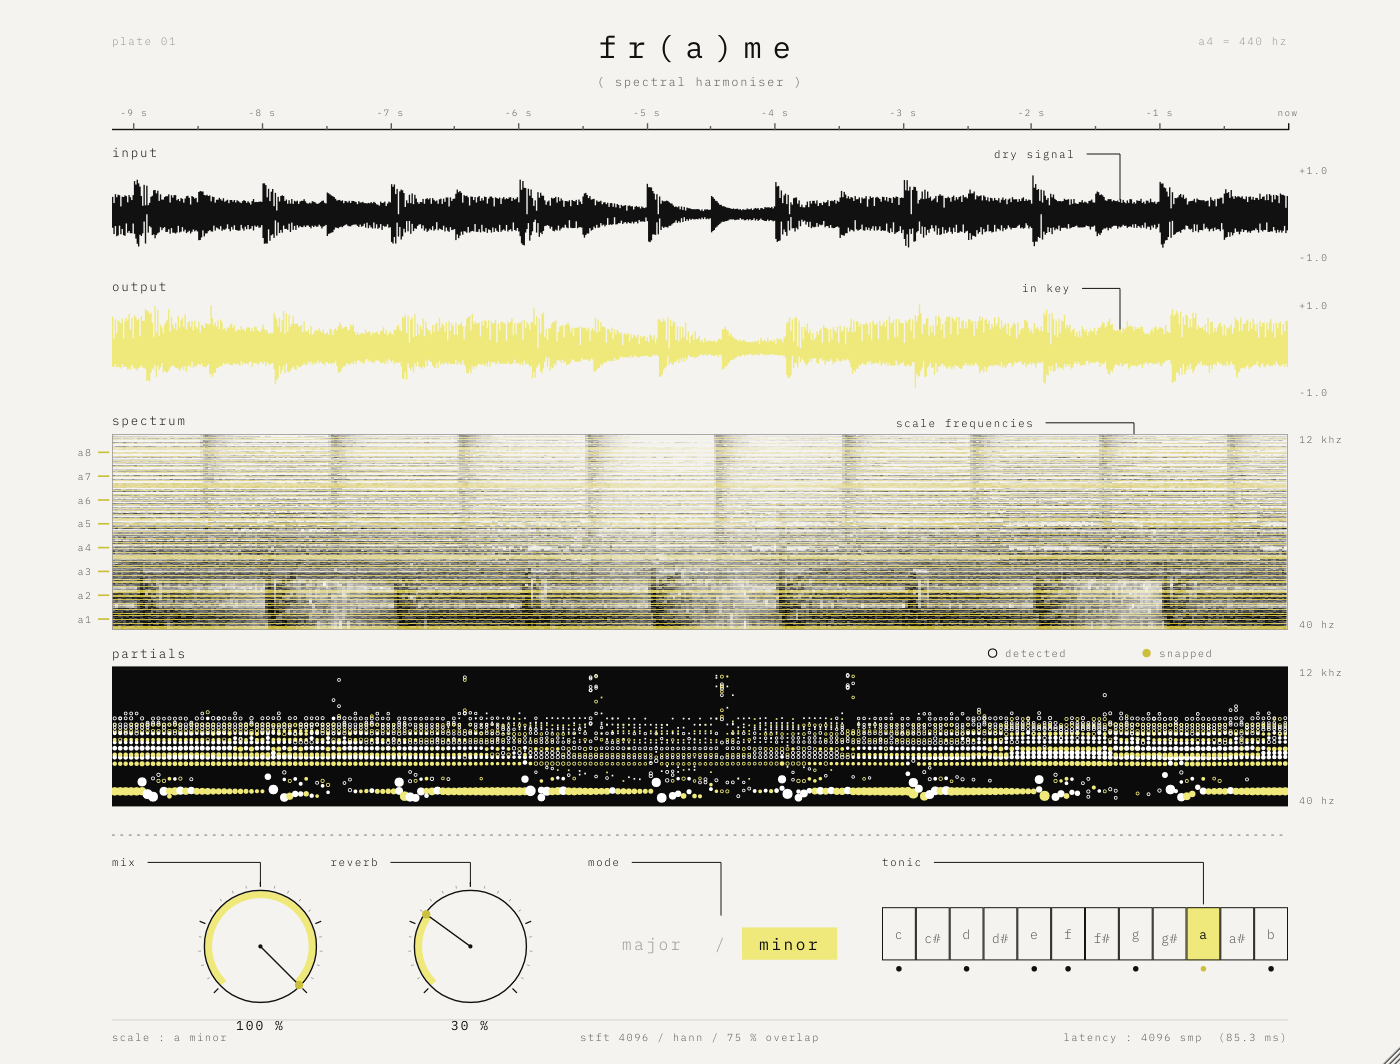
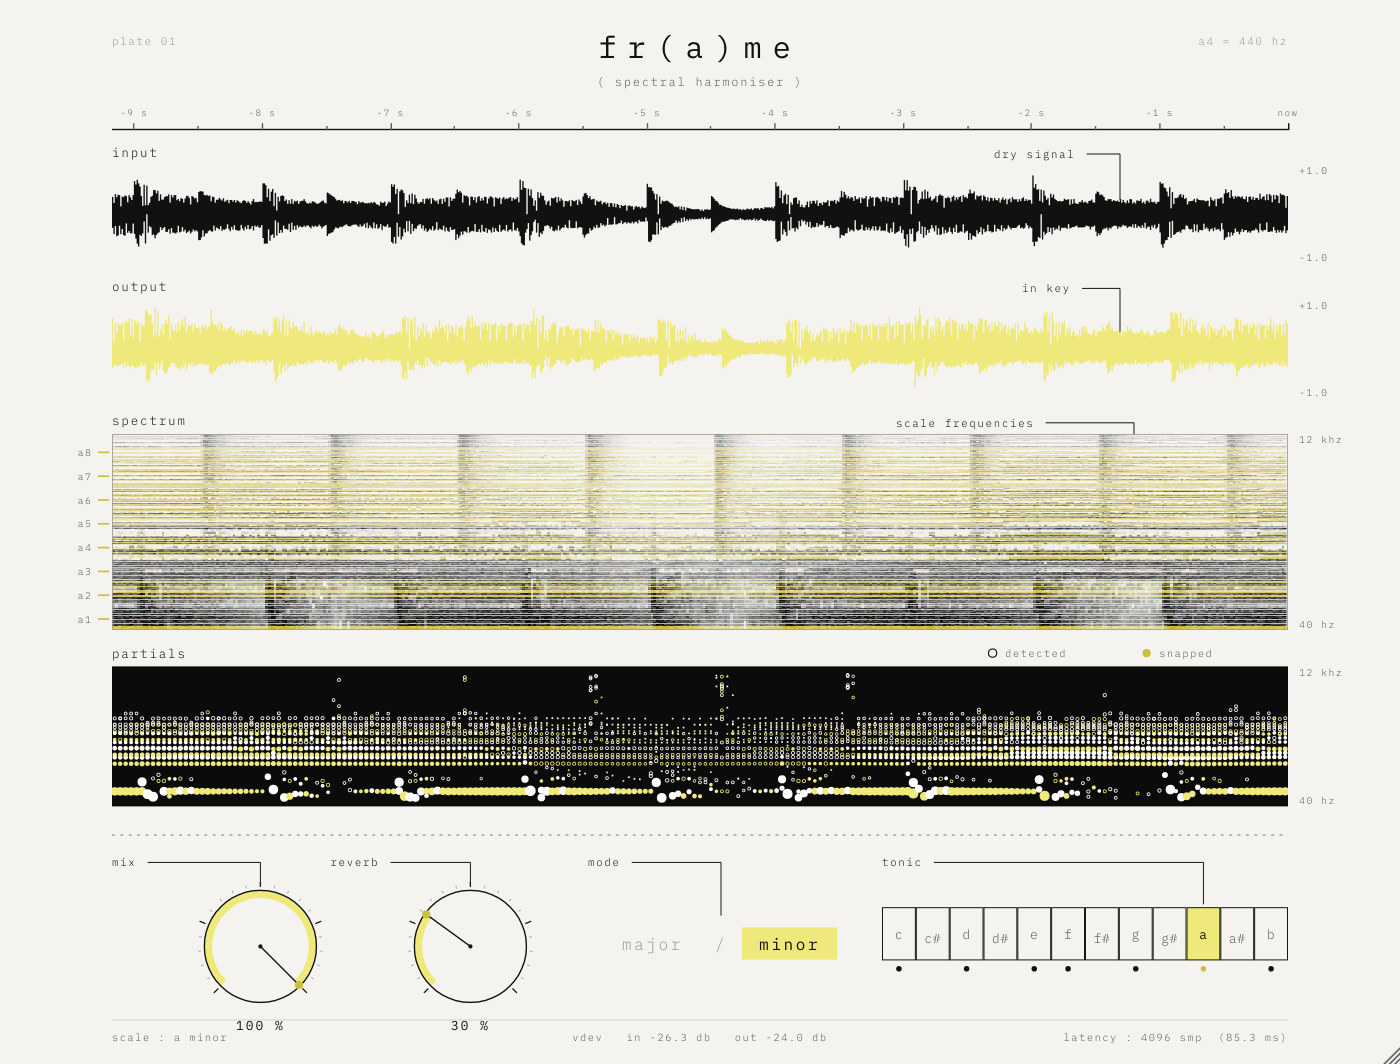
fr(a)me 1.7.0 : garde-fou « tout le son passe », version et niveaux affichés
- si le son traité tombe à plus de 6 dB sous l'original, le son direct est
  réinjecté automatiquement (30 ms / 600 ms) ; inactif en usage normal
- vérifié : perte simulée de 30 dB → niveau d'origine rétabli
- pied de page : version, niveaux entrée / sortie, « direct restored »
- son 1.6 (harmonie et reverb de la 1.4) inchangé

Claude-Session: https://claude.ai/code/session_01BthVUY6Bak1JTWBvTbc3au

Changed region(s): [[0.0614, 0.4652, 0.9214, 0.5583], [0.8293, 0.2791, 0.86, 0.3102], [0.2457, 0.3102, 0.2764, 0.3412]]

diff --git a/Source/PluginProcessor.cpp b/Source/PluginProcessor.cpp
@@ -94,6 +94,15 @@ void FrameAudioProcessor::prepareToPlay (double sampleRate, int samplesPerBlock)
     currentSlice = {};
     sliceCount = 0;
     engineNeedsReset = false;
+
+    // Garde-fou et vu-mètres : constantes de temps.
+    guardCoef      = 1.0f - std::exp (-1.0f / (0.15f * (float) sampleRate));   // énergie sur ~150 ms
+    restoreAttack  = 1.0f - std::exp (-32.0f / (0.03f * (float) sampleRate)); // réinjection en ~30 ms
+    restoreRelease = 1.0f - std::exp (-32.0f / (0.6f  * (float) sampleRate)); // retrait en ~600 ms
+    meterCoef      = 1.0f - std::exp (-1.0f / (0.3f  * (float) sampleRate));
+    guardDry = guardWet = 0.0f;
+    directRestore = 0.0f;
+    meterIn = meterOut = 0.0f;
     prepared = true;
 }
 
@@ -147,6 +156,8 @@ void FrameAudioProcessor::processBlock (juce::AudioBuffer<float>& buffer, juce::
         engine.reset();
         reverb.reset();
         dryDelay.clear();
+        guardDry = guardWet = 0.0f;
+        directRestore = 0.0f;
         reverbSmoothed = reverbParam->load() * 0.01f;
         engineNeedsReset = false;
     }
@@ -190,6 +201,9 @@ void FrameAudioProcessor::processChunk (juce::AudioBuffer<float>& buffer, int st
     juce::AudioBuffer<float> wetView (wetBuffer.getArrayOfWritePointers(), numChannels, 0, numSamples);
     reverb.process (wetView, numChannels, reverbSmoothed);   // 1. reverb ambient + nuage granulaire
     engine.process (wetView);                                // 2. recalage + harmoniques + peigne (queue comprise)
+   #ifdef FRAME_TEST_SIMULATE_WET_LOSS
+    wetView.applyGain (0.03f);                               // test du garde-fou uniquement (jamais dans le plugin)
+   #endif
 
     const int delayLength = dryDelay.getNumSamples();
     bool invalid = false;
@@ -210,7 +224,16 @@ void FrameAudioProcessor::processChunk (juce::AudioBuffer<float>& buffer, int st
             const float delayed = line[dryDelayWritePos];
             line[dryDelayWritePos] = x;
 
-            const float y = safetyLimit (delayed + m * (wetBuffer.getSample (c, i) - delayed), invalid);
+            // Garde-fou « tout le son passe » : si le chemin traité a perdu une
+            // grande partie du son d'origine, le son direct est réinjecté.
+            const float rawWet = wetBuffer.getSample (c, i);
+            const float wet = rawWet + directRestore * delayed;
+
+            // La perte se mesure AVANT correction (sinon le garde-fou se freinerait lui-même).
+            guardDry += (delayed * delayed - guardDry) * guardCoef;
+            guardWet += (rawWet * rawWet - guardWet) * guardCoef;
+
+            const float y = safetyLimit (delayed + m * (wet - delayed), invalid);
             buffer.setSample (c, startSample + i, y);
 
             inLo  = juce::jmin (inLo, x);  inHi  = juce::jmax (inHi, x);
@@ -219,6 +242,25 @@ void FrameAudioProcessor::processChunk (juce::AudioBuffer<float>& buffer, int st
 
         if (++dryDelayWritePos >= delayLength)
             dryDelayWritePos = 0;
+
+        // Mise à jour du garde-fou, une fois par paquet de 32 échantillons.
+        if ((++guardCounter & 31) == 0)
+        {
+            float target = 0.0f;
+            if (guardDry > 1.0e-7f)                               // le son d'origine joue (> −70 dBFS)
+            {
+                const float ratio = std::sqrt (guardWet / guardDry);
+                // traité à moins de −6 dB de l'original : on réinjecte progressivement
+                target = juce::jlimit (0.0f, 1.0f, (0.5f - ratio) / 0.35f);
+            }
+            const float k = target > directRestore ? restoreAttack : restoreRelease;
+            directRestore += (target - directRestore) * k;
+            if (! std::isfinite (directRestore) || directRestore < 1.0e-4f) directRestore = target > 0.0f ? directRestore : 0.0f;
+            if (! std::isfinite (guardDry) || ! std::isfinite (guardWet)) { guardDry = guardWet = 0.0f; directRestore = 0.0f; }
+        }
+
+        meterIn  += (inHi - inLo  - meterIn)  * meterCoef;
+        meterOut += (outHi - outLo - meterOut) * meterCoef;
 
         // Tranche de forme d'onde pour l'interface.
         currentSlice.inMin  = juce::jmin (currentSlice.inMin, inLo);
@@ -236,6 +278,10 @@ void FrameAudioProcessor::processChunk (juce::AudioBuffer<float>& buffer, int st
 
     if (invalid)
         engineNeedsReset = true;     // le moteur sera réinitialisé au prochain bloc
+
+    inputLevelDb.store  (juce::Decibels::gainToDecibels (0.5f * meterIn,  -100.0f));
+    outputLevelDb.store (juce::Decibels::gainToDecibels (0.5f * meterOut, -100.0f));
+    restoreActive.store (directRestore > 0.05f);
 }
 
 void FrameAudioProcessor::processBlockBypassed (juce::AudioBuffer<float>& buffer, juce::MidiBuffer&)

diff --git a/Source/PluginEditor.cpp b/Source/PluginEditor.cpp
@@ -7,6 +7,10 @@
 #include "PluginEditor.h"
 #include "Scale.h"
 
+#ifndef JucePlugin_VersionString
+ #define JucePlugin_VersionString "dev"
+#endif
+
 //==============================================================================
 //  FrameCanvas
 //==============================================================================
@@ -90,6 +94,7 @@ void FrameCanvas::refresh()
 
     inputBand.repaint();
     outputBand.repaint();
+    repaint (juce::Rectangle<int> (0, 730, designWidth, 22));   // pied de page : niveaux
     spectrumBand.repaint();
     partialBand.repaint();
 }
@@ -200,8 +205,13 @@ void FrameCanvas::paint (juce::Graphics& g)
     g.setColour (Palette::faint);
     g.drawHorizontalLine (728, left, right);
     drawMonoText (g, "scale : " + scaleName, { left, 734.0f, 300.0f, 14.0f }, 9.5f, J::centredLeft, Palette::graphite);
-    drawMonoText (g, "stft " + juce::String (latency) + " / hann / 75 % overlap",
-                  { 0.0f, 734.0f, (float) designWidth, 14.0f }, 9.5f, J::centred, Palette::graphite);
+    // Version + niveaux d'entrée / sortie (et garde-fou s'il agit).
+    juce::String centre = "v" JucePlugin_VersionString "   in " + juce::String (processor.getInputLevelDb(), 1)
+                        + " db   out " + juce::String (processor.getOutputLevelDb(), 1) + " db";
+    if (processor.isDirectRestoreActive())
+        centre << "   direct restored";
+    drawMonoText (g, centre, { 0.0f, 734.0f, (float) designWidth, 14.0f }, 9.5f, J::centred,
+                  processor.isDirectRestoreActive() ? Palette::ink : Palette::graphite);
     drawMonoText (g, "latency : " + juce::String (latency) + " smp  (" + juce::String (1000.0 * latency / sr, 1) + " ms)",
                   { right - 300.0f, 734.0f, 300.0f, 14.0f }, 9.5f, J::centredRight, Palette::graphite);
 }

diff --git a/Source/PluginProcessor.h b/Source/PluginProcessor.h
@@ -76,6 +76,11 @@ public:
     int getLatencyInSamples() const noexcept { return engine.getLatencySamples(); }
     double getCurrentSampleRate() const noexcept { return currentSampleRate.load(); }
 
+    /** Vu-mètres (dBFS crête, lissés) et état du garde-fou, pour l'interface. */
+    float getInputLevelDb() const noexcept  { return inputLevelDb.load(); }
+    float getOutputLevelDb() const noexcept { return outputLevelDb.load(); }
+    bool  isDirectRestoreActive() const noexcept { return restoreActive.load(); }
+
 
 private:
     static juce::AudioProcessorValueTreeState::ParameterLayout createParameterLayout();
@@ -93,6 +98,17 @@ private:
     float reverbSmoothed = 0.3f;          // REVERB lissé de bloc en bloc
     std::atomic<bool> prepared { false }; // prepareToPlay a été appelé
     bool engineNeedsReset = false;        // auto-réparation après une valeur invalide
+
+    // Garde-fou « tout le son passe » : énergies lissées du son d'origine
+    // (retardé) et du son traité ; si le traité tombe loin sous l'original,
+    // le son direct est réinjecté dans le chemin traité.
+    float guardDry = 0.0f, guardWet = 0.0f, directRestore = 0.0f;
+    float guardCoef = 0.001f, restoreAttack = 0.1f, restoreRelease = 0.01f;
+    uint32_t guardCounter = 0;
+
+    float meterIn = 0.0f, meterOut = 0.0f, meterCoef = 0.001f;
+    std::atomic<float> inputLevelDb { -100.0f }, outputLevelDb { -100.0f };
+    std::atomic<bool> restoreActive { false };
     std::atomic<float>* modeParam = nullptr;
     std::atomic<float>* noteParam = nullptr;
 

diff --git a/README.md b/README.md
@@ -216,6 +216,14 @@ se fondent. La réverbe est placée **avant** le moteur harmonique : toute la qu
 compris, est ensuite recalée, harmonisée et peignée → une réverbe entièrement dans la
 tonalité. Niveau normalisé : la queue ne s'emballe pas, même à 100 % sur un son tenu.
 
+**Garde-fou « tout le son passe »** : le plugin compare en continu l'énergie du son
+traité à celle du son d'origine (aligné). Si le traité tombe à plus de 6 dB sous
+l'original alors que celui-ci joue, le son direct est réinjecté automatiquement (en ~30 ms,
+retrait en ~600 ms) : aucune partie du son ne peut disparaître, quel que soit l'hôte. En
+usage normal il ne s'active jamais (vérifié : 0 bloc actif sur des hi-hats et 60 s de
+musique) ; sur une perte simulée de 30 dB, il rétablit le niveau d'origine. Le pied de
+page affiche la version, les niveaux d'entrée et de sortie, et « direct restored » quand il agit.
+
 **Sécurité** : entrée et sortie assainies (aucune valeur invalide ne peut sortir ni
 contaminer le mixeur de l'hôte), auto-réinitialisation du moteur si besoin, limiteur doux
 transparent sous −1 dBFS qui plafonne la sortie à 0 dBFS, appels de l'hôte avant
